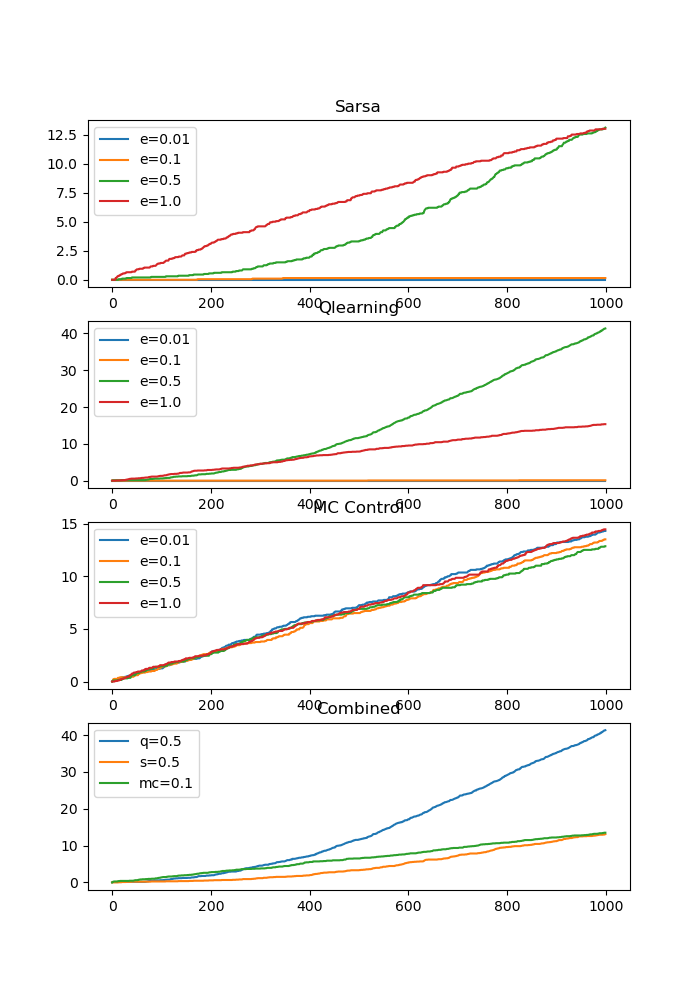
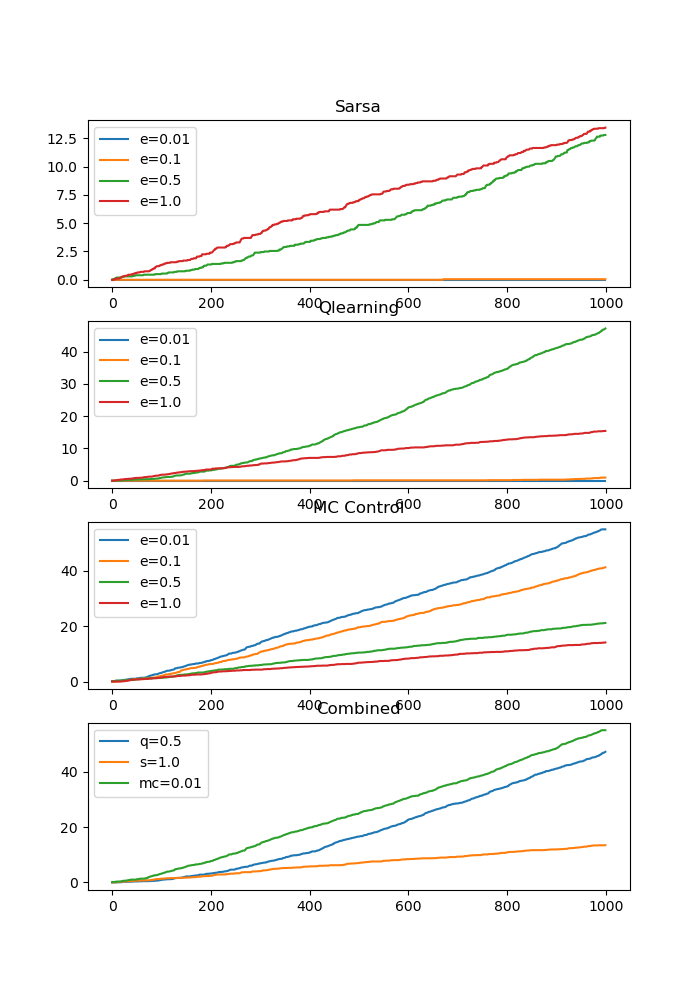
fix

diff --git a/aufgabe6/mc_control.py b/aufgabe6/mc_control.py
@@ -78,7 +78,7 @@ class MCControl:
                 rewards = []
                 q_values = self.init_q()
                 for i in range(0, self.no_episodes):
-                    s, r = self.play_episode(q_values, epsilon=e)
+                    s, r = self.play_episode(q_values, epsilon=epsi)
                     # Calculate empirical return Gt in every state that was visited.
                     rewards.append(sum(r))
                     # Calculate V(s) for every state by aggregating the empirical returns received in s.
